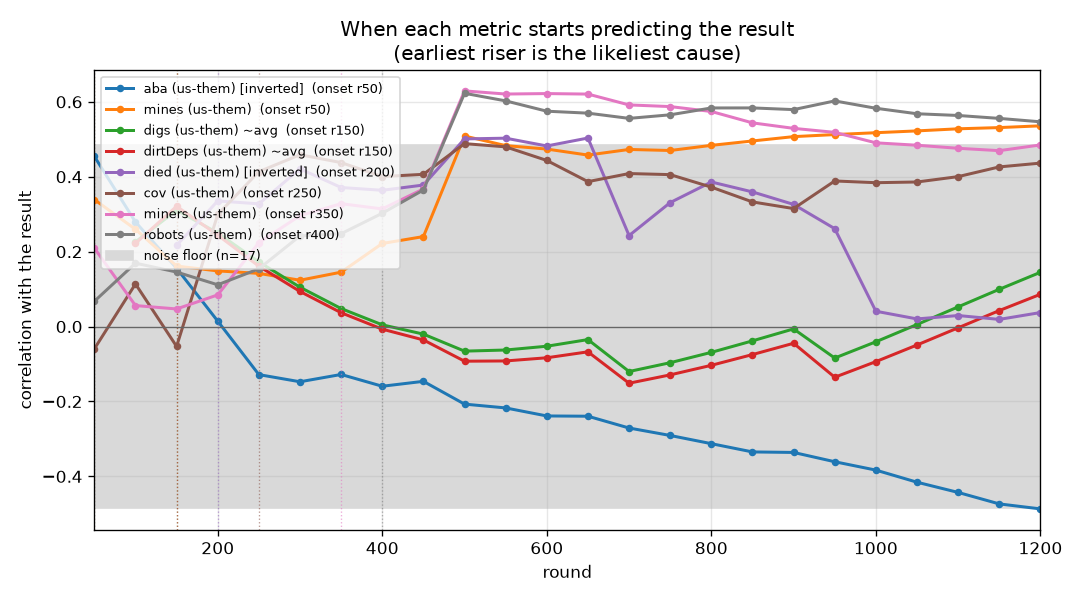
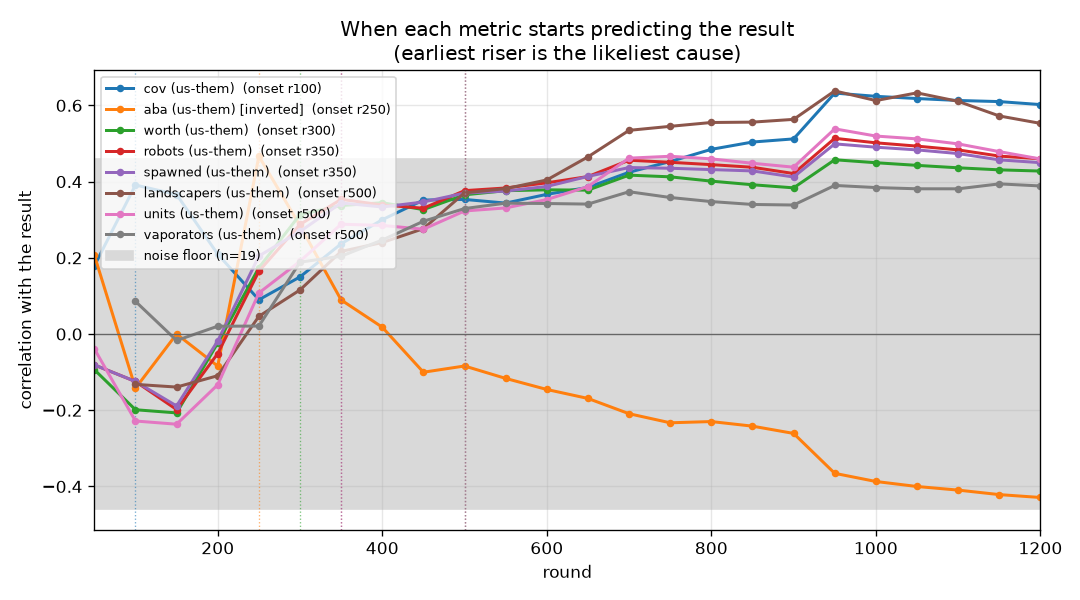
Block 22 logged; Iteration 22 WIP: the HQ's spawn gap with soup-driven miners
Claude-Session: https://claude.ai/code/session_01CTUHPRaZ9DbYUkpWKYf2Y2

diff --git a/src/bot/Miner.java b/src/bot/Miner.java
@@ -34,7 +34,7 @@ public strictfp class Miner extends Robot {
         if (round % 8 == id % 8 && Clock.getBytecodeNum() < 3000) observeTerrain();
         int b2 = Clock.getBytecodeNum();
         if (round % 100 == 0) Debug.log("@minerstat builder=" + builder + " mined=" + mined + " deposits=" + deposits + " explores=" + explores + " soupMem=" + nSoup + " unreachable=" + unreachable);
-        rememberSoup(); int b3 = Clock.getBytecodeNum();
+        rememberSoup(); reportRich(); int b3 = Clock.getBytecodeNum();
         try { turn2(); } finally { int b4 = Clock.getBytecodeNum(); if (b4 > 8000) Debug.log("@bcprof sense=" + b0 + " block=" + (b1 - b0) + " terrain=" + (b2 - b1) + " soup=" + (b3 - b2) + " act=" + (b4 - b3) + " bug=" + nav.isBugging()); }
     }
     private void turn2() throws GameActionException {
@@ -98,6 +98,13 @@ public strictfp class Miner extends Robot {
     // ---------------------------------------------------------------- worker
     /** Sample the visible soup into memory: a strided pass over at most SOUP_SCAN tiles (the full array can be
      *  100+ tiles and a full O(tiles x memory) scan overran the 10k budget in the first diagnostic). */
+    private int lastRichPost = -1000;
+    /** Iteration 21: more soup in memory than one miner can work -> tell the HQ (fee 1), at most once per RICH_POST_EVERY rounds. */
+    private void reportRich() throws GameActionException {
+        if (nSoup < C.RICH_MEMORY || round - lastRichPost < C.RICH_POST_EVERY || round > 600) return;
+        if (post(Comms.make(Comms.SOUP, round, us, loc.x, loc.y, nSoup))) { lastRichPost = round; Debug.log("@rich n=" + nSoup); }
+    }
+
     private void rememberSoup() throws GameActionException {
         if (nSoup >= C.SOUP_MEMORY || (round & 1) != (id & 1) || Clock.getBytecodeNum() > 4500) return;
         MapLocation[] s = rc.senseNearbySoup();

diff --git a/src/bot/C.java b/src/bot/C.java
@@ -9,6 +9,13 @@ public final class C {
 
     // --- economy (Iteration 1: unmeasured starting values)
     public static final int MINERS_EARLY = 4;         // miners the HQ builds before anything else is affordable
+    // Iteration 21: soup-driven miners. A miner that sees more soup than it can mine reports it; the HQ raises the miner cap
+    // by the reports of the last RICH_WINDOW rounds, up to RICH_EXTRA. Rich maps get more miners, poor maps keep eight.
+    public static final int GAP_ROUND = 300;          // Iteration 22: one ring tile (the gap) stays unseated until this round so the HQ can still spawn miners
+    public static final int RICH_MEMORY = 6;          // soup tiles in memory that count as "more than I can mine"
+    public static final int RICH_POST_EVERY = 50;
+    public static final int RICH_WINDOW = 150;
+    public static final int RICH_EXTRA = 8;
     public static final int MINERS_MAX = 8;           // never more live miners than this (each costs a wall-ring build slot)
     public static final int MINERS_TOTAL = 16;         // hard cap on miners ever built by the HQ
     public static final int MINER_REPLENISH = 60;     // rounds between replacement miners after MINERS_MAX

diff --git a/progress/ONSET.md b/progress/ONSET.md
@@ -1,6 +1,6 @@
 # Which metric starts predicting the result first
 
-17 games, 8 wins. Noise floor about 0.49; a correlation inside that band is not evidence.
+19 games, 5 wins. Noise floor about 0.46; a correlation inside that band is not evidence.
 
 Every metric is oriented so **higher is better for us**, so a positive correlation always means
 "this being better goes with winning". `~avg` is the running mean over all rounds so far rather than
@@ -12,46 +12,46 @@ See `progress/METRICS.md` for how each quantity is computed.
 
 | onset | anti | metric | peak corr | r100 | r200 | r300 | r400 | r600 | r900 |
 |---|---|---|---|---|---|---|---|---|---|
-| r50 | r800 | aba (us-them) [inverted] | -0.49 | +0.28 | +0.01 | -0.15 | -0.16 | -0.24 | -0.34 |
-| r50 | r1150 | aba (us-them) [inverted] ~avg | +0.43 | +0.31 | +0.16 | -0.04 | -0.07 | -0.13 | -0.23 |
-| r50 | - | mines (us-them) | +0.54 | +0.26 | +0.15 | +0.12 | +0.22 | +0.47 | +0.51 |
-| r50 | - | mines (us-them) ~avg | +0.51 | +0.28 | +0.18 | +0.16 | +0.18 | +0.48 | +0.51 |
-| r150 | - | digs (us-them) ~avg | +0.31 | +0.23 | +0.25 | +0.11 | +0.00 | -0.05 | -0.01 |
-| r150 | - | dirtDeps (us-them) ~avg | +0.32 | +0.22 | +0.24 | +0.09 | -0.01 | -0.08 | -0.04 |
-| r200 | - | died (us-them) [inverted] | +0.50 | . | +0.34 | +0.42 | +0.36 | +0.48 | +0.33 |
-| r200 | - | died (us-them) [inverted] ~avg | +0.55 | . | +0.31 | +0.43 | +0.39 | +0.54 | +0.47 |
-| r250 | - | cov (us-them) | +0.49 | +0.11 | +0.30 | +0.46 | +0.40 | +0.44 | +0.32 |
-| r250 | - | cov (us-them) ~avg | +0.58 | +0.03 | +0.15 | +0.45 | +0.48 | +0.55 | +0.45 |
-| r350 | - | miners (us-them) | +0.63 | +0.06 | +0.08 | +0.30 | +0.31 | +0.62 | +0.53 |
-| r400 | - | robots (us-them) | +0.62 | +0.17 | +0.11 | +0.24 | +0.30 | +0.58 | +0.58 |
-| r450 | - | spawned (us-them) | +0.59 | +0.17 | +0.09 | +0.10 | +0.22 | +0.53 | +0.56 |
-| r450 | - | units (us-them) | +0.65 | +0.14 | +0.11 | +0.22 | +0.25 | +0.56 | +0.52 |
-| r500 | - | landscapers (us-them) | +0.57 | +0.11 | +0.09 | +0.01 | +0.06 | +0.50 | +0.50 |
-| r500 | - | miners (us-them) ~avg | +0.61 | +0.08 | +0.05 | +0.16 | +0.23 | +0.53 | +0.61 |
-| r500 | - | moves (us-them) | +0.57 | +0.17 | -0.02 | +0.07 | +0.17 | +0.48 | +0.55 |
-| r500 | - | pickups (us-them) | +0.45 | . | -0.16 | +0.12 | +0.25 | +0.37 | +0.36 |
-| r500 | - | robots (us-them) ~avg | +0.61 | +0.14 | +0.11 | +0.16 | +0.21 | +0.60 | +0.61 |
-| r500 | - | spawned (us-them) ~avg | +0.58 | +0.14 | +0.10 | +0.10 | +0.12 | +0.49 | +0.56 |
-| r500 | - | units (us-them) ~avg | +0.59 | +0.13 | +0.13 | +0.17 | +0.19 | +0.54 | +0.58 |
-| r500 | - | vaporators (us-them) | +0.48 | . | -0.01 | +0.08 | +0.19 | +0.47 | +0.44 |
-| r500 | - | vaporators (us-them) ~avg | +0.47 | . | -0.04 | +0.03 | +0.11 | +0.37 | +0.44 |
-| r500 | - | worth (us-them) | +0.59 | +0.33 | +0.09 | +0.14 | +0.27 | +0.57 | +0.55 |
-| r500 | - | worth (us-them) ~avg | +0.59 | +0.33 | +0.16 | +0.13 | +0.18 | +0.54 | +0.58 |
-| r550 | - | moves (us-them) ~avg | +0.55 | +0.03 | +0.04 | +0.04 | +0.11 | +0.35 | +0.51 |
-| r600 | - | pickups (us-them) ~avg | +0.46 | . | -0.22 | -0.03 | +0.13 | +0.32 | +0.40 |
-| r650 | - | landscapers (us-them) ~avg | +0.53 | +0.11 | +0.14 | +0.08 | +0.06 | +0.27 | +0.46 |
-| r700 | - | drones (us-them) | +0.52 | +0.16 | +0.04 | +0.08 | +0.06 | +0.05 | +0.31 |
-| r700 | - | netguns (us-them) | +0.48 | . | . | . | . | +0.21 | +0.47 |
-| r750 | - | netguns (us-them) ~avg | +0.49 | . | . | . | . | +0.21 | +0.40 |
-| r950 | - | drones (us-them) ~avg | +0.46 | +0.16 | +0.08 | +0.07 | +0.05 | +0.14 | +0.26 |
-| r1050 | - | soup (us-them) | +0.36 | +0.22 | +0.01 | -0.15 | -0.00 | +0.23 | +0.20 |
-| r1100 | - | digs (us-them) | +0.40 | +0.20 | +0.23 | +0.05 | -0.06 | -0.01 | +0.21 |
-| r1150 | - | dirtDeps (us-them) | +0.34 | +0.20 | +0.22 | +0.04 | -0.07 | -0.04 | +0.17 |
-| r1150 | - | soup (us-them) ~avg | +0.33 | +0.26 | +0.26 | +0.09 | +0.10 | +0.18 | +0.22 |
+| r100 | - | cov (us-them) | +0.63 | +0.39 | +0.21 | +0.15 | +0.30 | +0.37 | +0.51 |
+| r100 | - | cov (us-them) ~avg | +0.62 | +0.35 | +0.34 | +0.24 | +0.26 | +0.32 | +0.42 |
+| r250 | r950 | aba (us-them) [inverted] | +0.47 | -0.14 | -0.08 | +0.28 | +0.02 | -0.15 | -0.26 |
+| r300 | - | worth (us-them) | +0.46 | -0.20 | -0.02 | +0.31 | +0.34 | +0.38 | +0.38 |
+| r350 | - | robots (us-them) | +0.51 | -0.12 | -0.05 | +0.29 | +0.34 | +0.40 | +0.42 |
+| r350 | - | spawned (us-them) | +0.50 | -0.12 | -0.02 | +0.27 | +0.33 | +0.39 | +0.41 |
+| r500 | - | landscapers (us-them) | +0.64 | -0.13 | -0.11 | +0.12 | +0.24 | +0.40 | +0.56 |
+| r500 | - | units (us-them) | +0.54 | -0.23 | -0.13 | +0.19 | +0.28 | +0.35 | +0.44 |
+| r500 | - | vaporators (us-them) | +0.39 | +0.09 | +0.02 | +0.19 | +0.25 | +0.34 | +0.34 |
+| r500 | - | worth (us-them) ~avg | +0.49 | -0.17 | -0.13 | +0.13 | +0.25 | +0.34 | +0.40 |
+| r550 | - | mines (us-them) | +0.54 | -0.21 | +0.01 | +0.23 | +0.27 | +0.32 | +0.32 |
+| r550 | - | pickups (us-them) | +0.44 | . | +0.08 | +0.12 | +0.16 | +0.32 | +0.35 |
+| r550 | - | robots (us-them) ~avg | +0.53 | -0.11 | -0.13 | +0.08 | +0.23 | +0.33 | +0.42 |
+| r550 | - | spawned (us-them) ~avg | +0.51 | -0.11 | -0.11 | +0.09 | +0.23 | +0.33 | +0.40 |
+| r650 | - | landscapers (us-them) ~avg | +0.59 | -0.13 | -0.13 | -0.02 | +0.11 | +0.29 | +0.48 |
+| r650 | - | vaporators (us-them) ~avg | +0.42 | +0.09 | +0.02 | +0.08 | +0.16 | +0.29 | +0.37 |
+| r700 | - | pickups (us-them) ~avg | +0.46 | . | +0.00 | +0.04 | +0.10 | +0.25 | +0.35 |
+| r700 | - | units (us-them) ~avg | +0.53 | -0.16 | -0.20 | -0.01 | +0.14 | +0.27 | +0.41 |
+| r750 | - | digs (us-them) | +0.44 | +0.03 | -0.10 | +0.00 | +0.10 | +0.22 | +0.37 |
+| r750 | - | mines (us-them) ~avg | +0.52 | -0.20 | -0.12 | +0.08 | +0.18 | +0.26 | +0.31 |
+| r800 | - | dirtDeps (us-them) | +0.38 | +0.04 | -0.09 | -0.02 | +0.06 | +0.19 | +0.33 |
+| r850 | - | drones (us-them) | +0.42 | -0.24 | -0.01 | +0.15 | +0.23 | +0.23 | +0.35 |
+| r950 | - | died (us-them) [inverted] ~avg | +0.31 | . | -0.24 | -0.03 | +0.10 | +0.07 | +0.18 |
+| r950 | - | drones (us-them) ~avg | +0.42 | -0.16 | -0.11 | +0.02 | +0.11 | +0.19 | +0.29 |
+| r950 | - | miners (us-them) | +0.33 | -0.05 | -0.06 | +0.09 | +0.12 | +0.11 | +0.18 |
+| r950 | r200 | moves (us-them) | +0.37 | -0.07 | -0.34 | -0.31 | -0.15 | +0.03 | +0.22 |
+| r1050 | r250 | moves (us-them) ~avg | +0.33 | -0.07 | -0.28 | -0.32 | -0.25 | -0.09 | +0.11 |
+| r1150 | - | digs (us-them) ~avg | +0.33 | +0.03 | -0.09 | -0.04 | +0.03 | +0.13 | +0.27 |
+| - | r1100 | aba (us-them) [inverted] ~avg | -0.35 | -0.01 | -0.05 | +0.27 | +0.16 | -0.05 | -0.19 |
+| - | - | died (us-them) [inverted] | -0.25 | . | -0.25 | +0.20 | +0.14 | +0.08 | +0.12 |
+| - | - | dirtDeps (us-them) ~avg | +0.29 | +0.04 | -0.08 | -0.05 | +0.01 | +0.10 | +0.23 |
 | - | - | drowned (us-them) [inverted] | . | . | . | . | . | . | . |
 | - | - | drowned (us-them) [inverted] ~avg | . | . | . | . | . | . | . |
-| - | - | hqBuried (us-them) [inverted] | +0.22 | +0.22 | . | . | . | +0.21 | . |
-| - | - | hqBuried (us-them) [inverted] ~avg | +0.22 | +0.22 | +0.22 | +0.22 | +0.22 | +0.21 | . |
+| - | - | hqBuried (us-them) [inverted] | +0.14 | . | +0.14 | +0.14 | . | . | . |
+| - | - | hqBuried (us-them) [inverted] ~avg | +0.14 | . | +0.14 | +0.14 | +0.14 | +0.14 | . |
+| - | - | miners (us-them) ~avg | +0.29 | -0.06 | -0.08 | -0.01 | +0.04 | +0.07 | +0.14 |
+| - | - | netguns (us-them) | +0.26 | . | . | . | +0.14 | +0.24 | +0.21 |
+| - | - | netguns (us-them) ~avg | +0.23 | . | . | . | +0.14 | +0.23 | +0.22 |
+| - | r500 | soup (us-them) | -0.48 | -0.19 | -0.09 | -0.01 | -0.17 | -0.42 | -0.28 |
+| - | r600 | soup (us-them) ~avg | -0.36 | -0.12 | -0.19 | -0.06 | -0.15 | -0.32 | -0.35 |
 
 **Reading it.** Earliest onset is the first place to look: temporal precedence is the one causal hint a
 correlation can honestly give. Late-onset metrics are usually the scoreboard rather than the cause -- by then

diff --git a/TRAINING_LOG.md b/TRAINING_LOG.md
@@ -831,6 +831,19 @@ none on TwoLakeLand, ring at r2500. Result: the reports flow and the cap rises t
 the ring at about r150 the HQ has no free adjacent tile to spawn onto**. The miner count is fixed
 by r150, so the only economy lever is `MINERS_EARLY` (Iteration 15, 44%). Not gated; ledger.
 
+## Iteration 22 -- the spawn gap (2026-09-24)
+
+From Iteration 21's finding: the HQ cannot spawn once the ring is seated. Candidate = Iteration 21
+(soup-driven miner cap) + one ring tile, the exposed tile farthest from the map centre, kept
+unseated until r300 (`GAP_ROUND`) so the HQ can build the extra miners the reports justify; it
+costs that tile about 75 of height early, which the seats' equalising rule pays back. Diagnostic:
+Soup, TwoLakeLand, Prison vs g_iter3 -- miners above 8 by r300 on the soup-rich maps, the gap
+seated by r350, ring at r2500. Gate `gate22` vs `REF=g_iter3`. Falsifier: below 53%.
+
+## Block 22 -- g_iter3 against the challenge pool (run block22, 2026-09-24)
+
+48 games: **8/48 (17%)**; cumulative for g_iter3 106/492 (21.5%). Elo 1314, rank 66.
+
 ## Block 21 -- g_iter3 against the challenge pool (run block21, 2026-09-24)
 
 48 games: **12/48 (25%)**; cumulative for g_iter3 98/444 (22.1%).
